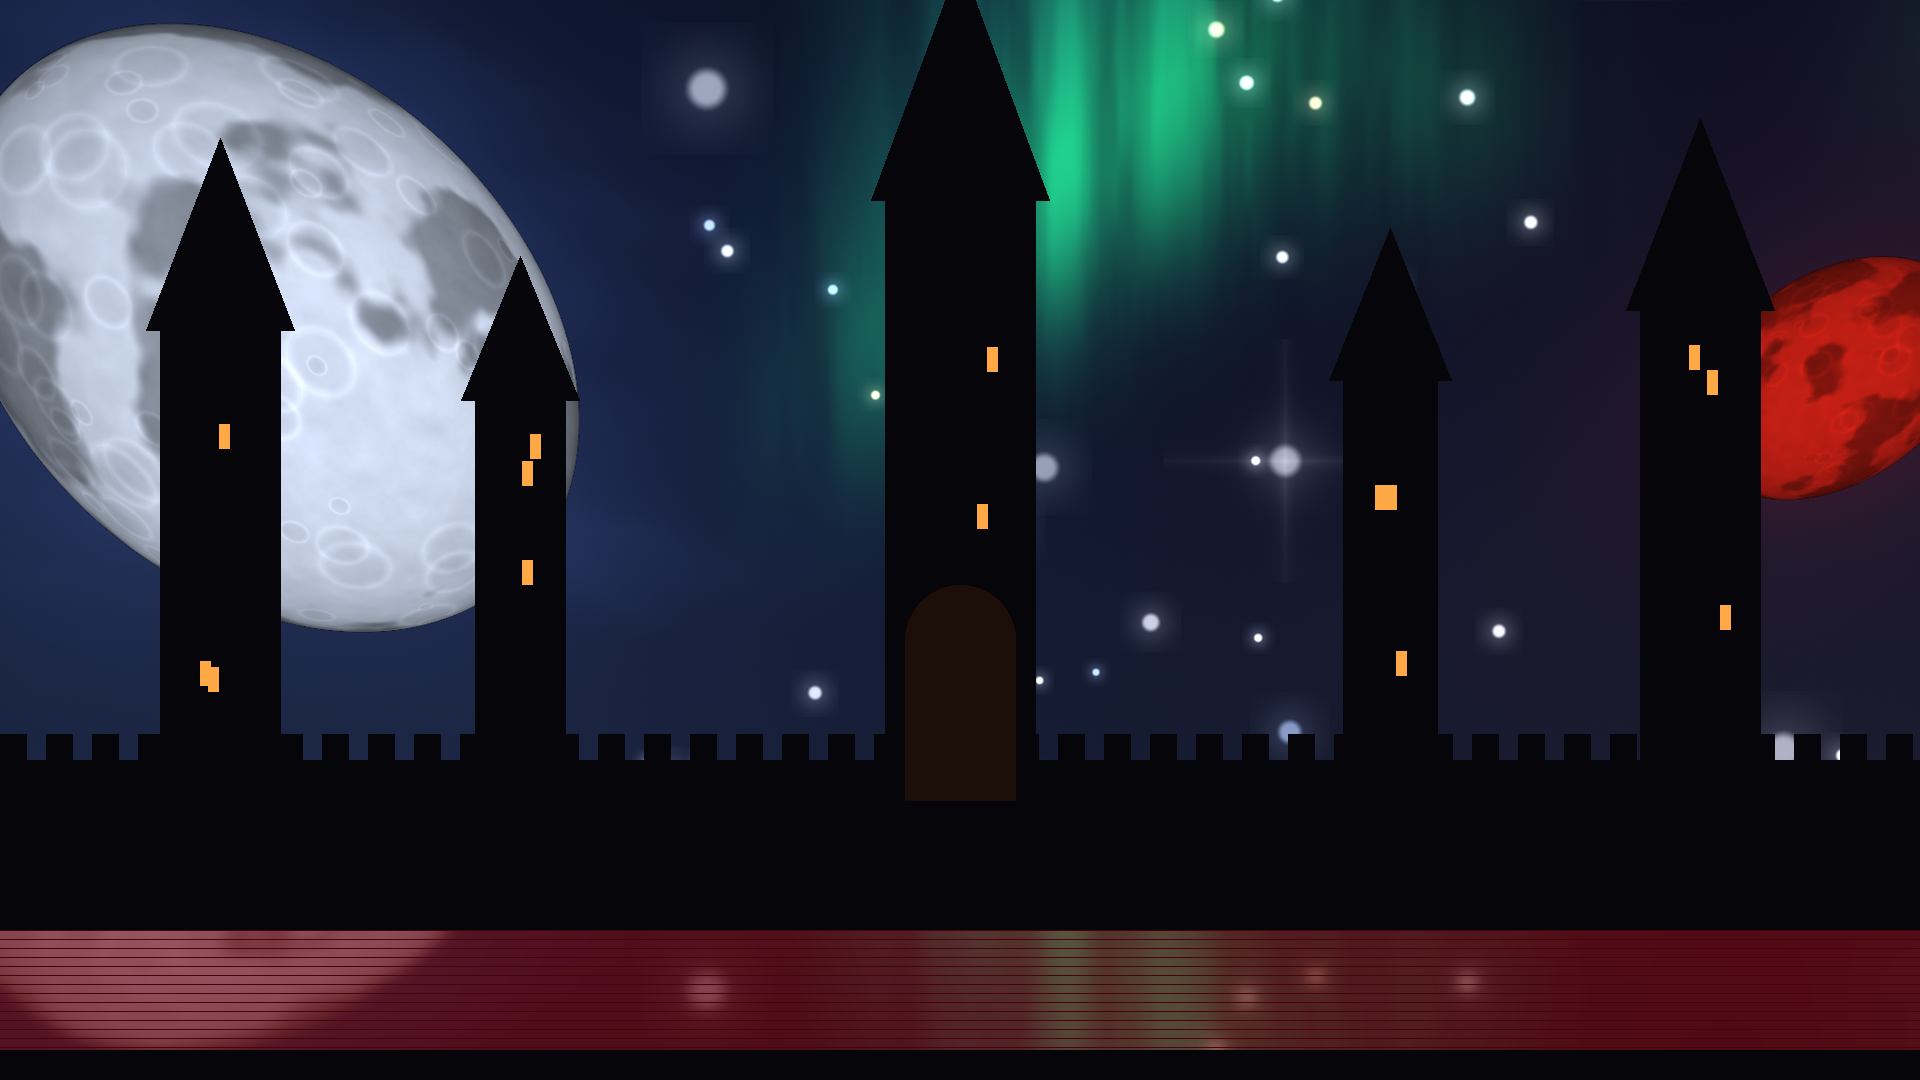
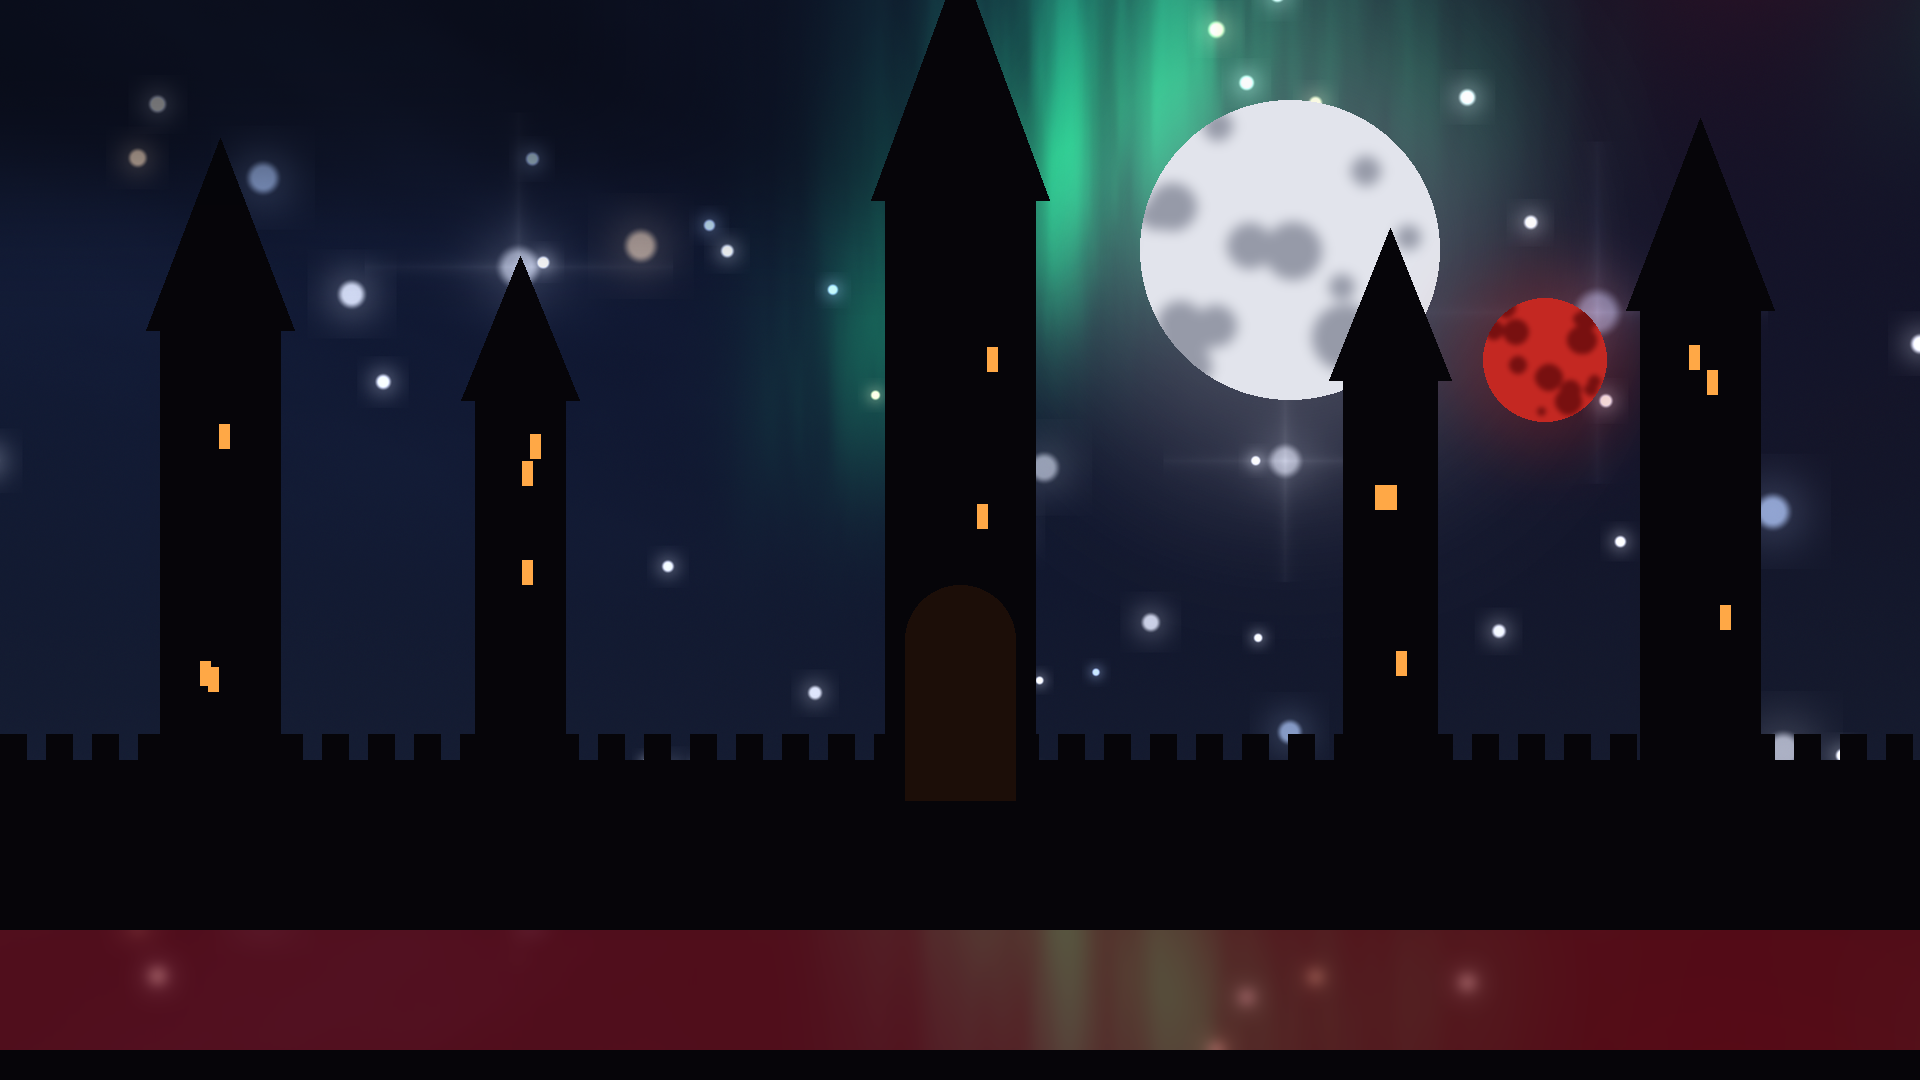
Round 4 UI and hunt lighting fixes (piece 0)
- S7: a map whose scene is not in the player now renders as a parchment
  tab with its name in dark ink plus 'not in this build' (r3: blank grey
  bar). Key-cap buttons keep >=12 px between label and cap; EXIT TO
  DESKTOP widened to 300.
- S8: removed the red ruling line baked into BloodLedger/Panel.png at 16%
  height (it crossed the note title's ascenders at y~378).
- Title backdrop: the sky moons moved out of the front face (look3), so
  both moons are painted into the key art clear of the brand; top-left
  shaded under the brand; moat scanlines removed.
- Hunt lighting: Bellwether's warning trips the breaker and disables every
  practical lamp (Game.Update, Case.BreakerOn). In the castle the candles
  now stay lit through warning/hunt (only the brazier interactable is the
  breaker), which is why r3 hunt frames were blue-black vs S1.

diff --git a/Assets/HollowCurrent/Runtime/Interface.cs b/Assets/HollowCurrent/Runtime/Interface.cs
@@ -214,7 +214,7 @@ namespace HollowCurrent
             if(ConsumeControllerAction(id,GUI.enabled,Event.current.type==EventType.Layout))clicked=true;
             if(PadInput.Active)key=padFocus?PadInput.Prompt("ENTER"):"";
             var old=button.normal.textColor;button.normal.textColor=GUI.enabled?(plain&&!hover&&!focus&&OnPaper(rect.center)?paperInk:ink):new Color(.47f,.43f,.38f);
-            button.padding.left=Mathf.Clamp(Mathf.RoundToInt(w*.14f),22,68);button.padding.right=key.Length>0?(w<300?54:70):22;GUI.Label(rect,text,button);button.normal.textColor=old;
+            button.padding.left=Mathf.Clamp(Mathf.RoundToInt(w*.14f),22,68);button.padding.right=key.Length>0?80:22; // >=12 px clear of the key cap (cap spans w-66..w-18)GUI.Label(rect,text,button);button.normal.textColor=old;
             if(key.Length>0){var keyRect=new Rect(x+w-66,y+(h-24)/2,48,24);Border(keyRect,GUI.enabled?line:new Color(.16f,.18f,.17f));var oldKey=keyStyle.normal.textColor;keyStyle.normal.textColor=plain&&!hover&&!focus&&OnPaper(rect.center)?paperInk:ink;GUI.Label(keyRect,key,keyStyle);keyStyle.normal.textColor=oldKey;}
             if(clicked)Game.Sound.UI();
             return clicked;
@@ -228,13 +228,17 @@ namespace HollowCurrent
             if(Action(80,617,440,62,"BEGIN INVESTIGATION","ENTER",true))Game.BeginInvestigation();
             for(int i=0;i<MapCatalog.All.Count;i++)
             {
-                var map=MapCatalog.All[i];GUI.enabled=Game.MapAvailable(map.Id);
-                bool chosen=Game.SelectedMap==map.Id;
-                if(Action(80+i*325,550,310,50,chosen?"•  "+map.DisplayName:map.DisplayName,"",chosen,false,chosen,"map/"+map.Id))Game.SelectMap(map.Id);
-                GUI.enabled=true;
+                var map=MapCatalog.All[i];bool chosen=Game.SelectedMap==map.Id;var tab=new Rect(80+i*325,550,310,50);
+                if(Game.MapAvailable(map.Id)){if(Action(tab.x,tab.y,tab.width,tab.height,chosen?"•  "+map.DisplayName:map.DisplayName,"",chosen,false,chosen,"map/"+map.Id))Game.SelectMap(map.Id);continue;}
+                // A map whose scene is not in this player: a parchment tab with dark ink
+                // (readable, not focusable), never an empty disabled bar.
+                TextureFrame(tab,paperPanel,new Color(1,1,1,.97f));Border(tab,line);
+                var ink=button.normal.textColor;var size=button.fontSize;button.normal.textColor=paperInk;button.fontSize=17;button.padding.left=22;button.padding.right=22;
+                GUI.Label(new Rect(tab.x,tab.y-7,tab.width,tab.height),map.DisplayName,button);button.normal.textColor=ink;button.fontSize=size;
+                var oldSmall=small.normal.textColor;small.normal.textColor=oxblood;GUI.Label(new Rect(tab.x+22,tab.y+26,tab.width-30,20),"not in this build",small);small.normal.textColor=oldSmall;
             }
             if(Action(80,700,270,46,"FIELD SETTINGS","S",false,true)){Game.Paused=true;Game.ApplyFocus();}
-            if(Action(355,700,260,46,"EXIT TO DESKTOP","Q",false,true))Game.Quit();
+            if(Action(355,700,300,46,"EXIT TO DESKTOP","Q",false,true))Game.Quit();
             Footer("1 / 2 choose map   ·   WASD move   ·   Mouse look   ·   E interact   ·   Headphones suggested");
         }
         void Loading()

diff --git a/tools/ui_blood_ledger.py b/tools/ui_blood_ledger.py
@@ -90,7 +90,6 @@ def cards():
     panel = stains(panel, 7, 5, (92, 10, 16), .55)
     w, h = panel.size
     seal(panel, int(w * .86), int(h * .80), int(min(w, h) * .075))
-    ImageDraw.Draw(panel).line([(w * .1, h * .16), (w * .9, h * .16)], fill=(110, 18, 24, 200), width=3)
     panel.save(OUT / "Panel.png", optimize=True)
     dialogue = tint(Image.open(SRC / "Dialogue.png").convert("RGBA"), (.86, .72, .62))
     dialogue = stains(dialogue, 11, 3, (92, 10, 16), .45)
@@ -102,12 +101,34 @@ def cards():
         write_meta(OUT / f"{name}.png", SRC / f"{name}.png")
 
 
+def moon(img, cx, cy, r, light, dark, seed):
+    rnd = random.Random(seed)
+    glow = Image.new("L", img.size, 0)
+    ImageDraw.Draw(glow).ellipse([cx - r * 1.5, cy - r * 1.5, cx + r * 1.5, cy + r * 1.5], fill=70)
+    glow = glow.filter(ImageFilter.GaussianBlur(r * .5))
+    img.paste(Image.new("RGB", img.size, light), (0, 0), glow)
+    disc = Image.new("RGB", (2 * r, 2 * r), light)
+    dd = ImageDraw.Draw(disc)
+    for _ in range(14):
+        cr = rnd.uniform(.06, .22) * r
+        x, y = rnd.uniform(cr, 2 * r - cr), rnd.uniform(cr, 2 * r - cr)
+        dd.ellipse([x - cr, y - cr, x + cr, y + cr], fill=dark)
+    disc = disc.filter(ImageFilter.GaussianBlur(r * .04))
+    mask = Image.new("L", (2 * r, 2 * r), 0)
+    ImageDraw.Draw(mask).ellipse([0, 0, 2 * r - 1, 2 * r - 1], fill=255)
+    img.paste(disc, (cx - r, cy - r), mask)
+
+
 def backdrop():
     """1920x1080 title key art: the two-moon sky over a black castle on a red moat."""
     sky = Image.open(SKY).convert("RGB")
     sw, sh = sky.size
     sky = sky.crop((0, 0, sw, int(sw * 9 / 16))).resize((1920, 1080), Image.LANCZOS)
     img = sky.copy()
+    # The sky faces carry the moons high (55 / 42 degrees since look3), outside the
+    # front face crop: paint both moons into the key art, clear of the brand lettering.
+    moon(img, 1290, 250, 150, (226, 228, 236), (150, 154, 168), 21)
+    moon(img, 1545, 360, 62, (196, 40, 34), (120, 16, 16), 5)
     d = ImageDraw.Draw(img)
     horizon = 760
     black = (6, 5, 9)
@@ -135,9 +156,16 @@ def backdrop():
     moat = Image.blend(moat, red, .62)
     img.paste(moat, (0, moat_top))
     d = ImageDraw.Draw(img)
-    for y in range(moat_top, 1080, 9):
-        d.line([(0, y), (1920, y)], fill=(70, 4, 8), width=1)
     d.rectangle([0, 1050, 1920, 1080], fill=black)
+    # Darken the top-left so the brand lettering never sits on the bright moon.
+    shade = Image.new("L", (1920, 1080), 0)
+    sd = ImageDraw.Draw(shade)
+    for i in range(60):
+        t = i / 59
+        sd.rectangle([0, 0, int(1100 * (1 - t * .5)), int(260 * (1 - t * .5))], fill=int(150 * t))
+    shade = shade.filter(ImageFilter.GaussianBlur(40))
+    img = Image.composite(Image.new("RGB", img.size, (4, 4, 8)), img, shade)
+    d = ImageDraw.Draw(img)
     img.save(UI / "CastleBackdrop.png", optimize=True)
     write_meta(UI / "CastleBackdrop.png", UI / "MenuBackdrop.png")
 

diff --git a/Assets/HollowCurrent/Runtime/Game.cs b/Assets/HollowCurrent/Runtime/Game.cs
@@ -167,17 +167,21 @@ namespace HollowCurrent
             }
             // Budget visible practical lights without allocating a new material or shadow map.
             Light nearest=null,second=null;float nearestDistance=float.MaxValue,secondDistance=float.MaxValue;
+            // Bellwether's warning trips the breaker and kills every practical lamp. The
+            // castle's candles are its hunt tell (flames lean toward the Count), so they
+            // stay lit; only the chapel brazier (the breaker interactable) goes out.
+            bool lampsPowered=Case.BreakerOn||Map==MapId.Castle;
             foreach(var lamp in World.Lamps)
             {
                 float d=Vector3.Distance(Player.transform.position,lamp.transform.position);
-                if(!Case.BreakerOn||darkCircuits.Contains(lamp)||d>=8||Mathf.Abs(Player.transform.position.y-lamp.transform.position.y+2.5f)>=3)continue;
+                if(!lampsPowered||darkCircuits.Contains(lamp)||d>=8||Mathf.Abs(Player.transform.position.y-lamp.transform.position.y+2.5f)>=3)continue;
                 if(d<nearestDistance){second=nearest;secondDistance=nearestDistance;nearest=lamp;nearestDistance=d;}
                 else if(d<secondDistance){second=lamp;secondDistance=d;}
             }
             foreach(var kv in lampLevels)
             {
                 bool local=Vector3.Distance(Player.transform.position,kv.Key.transform.position)<8&&Mathf.Abs(Player.transform.position.y-kv.Key.transform.position.y+2.5f)<3;
-                kv.Key.enabled=local&&Case.BreakerOn&&!darkCircuits.Contains(kv.Key);
+                kv.Key.enabled=local&&lampsPowered&&!darkCircuits.Contains(kv.Key);
                 kv.Key.shadows=kv.Key==nearest||kv.Key==second?LightShadows.Soft:LightShadows.None;
                 kv.Key.intensity=kv.Value*(Scares?Scares.LightMultiplier:1)*(Case.Phase==Phase.Warning&&Mathf.Sin(Time.time*17)>0?.08f:1);
             }
